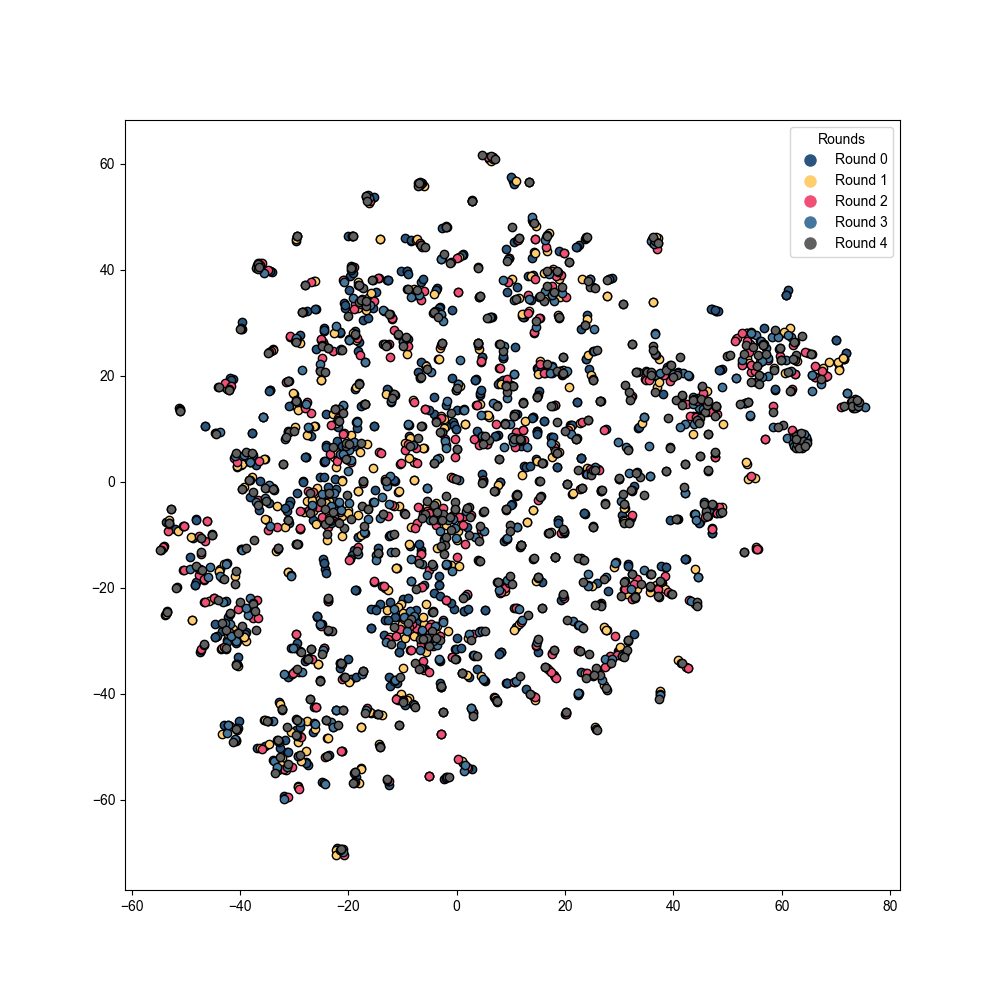
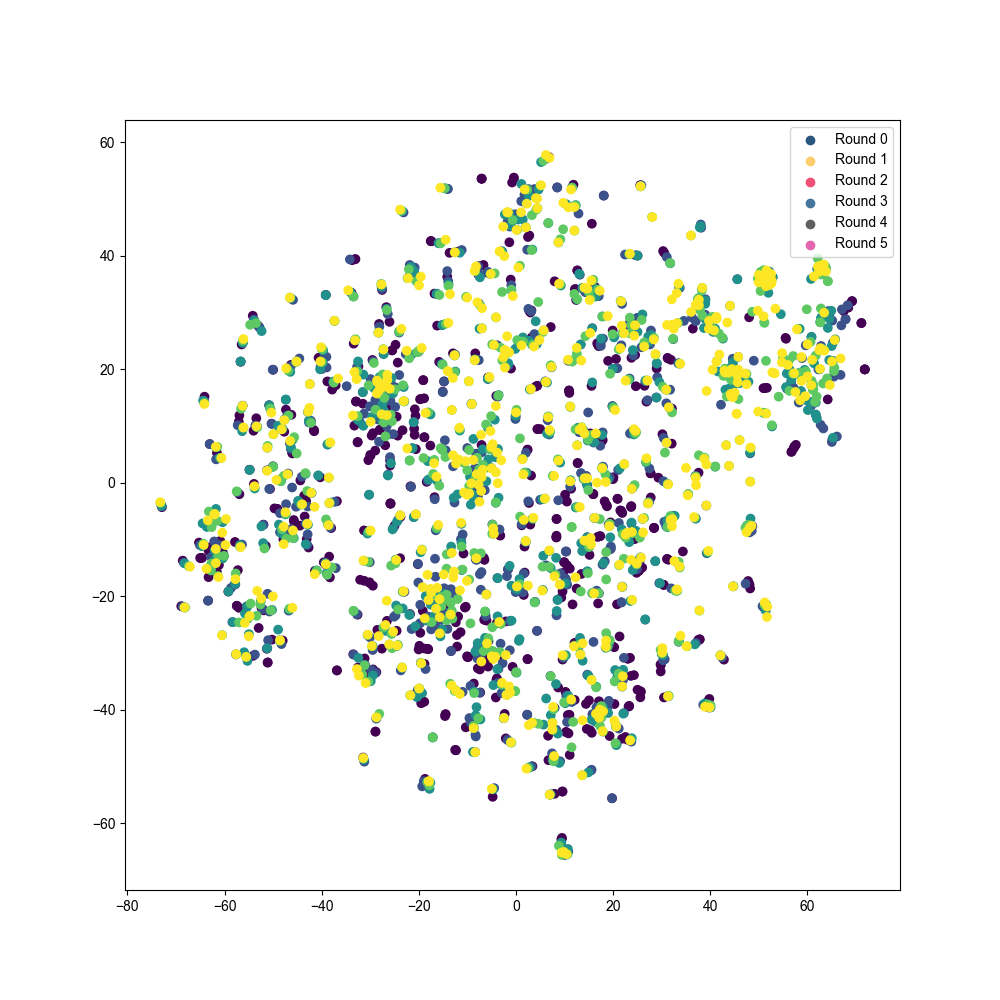
update the result

diff --git a/src/llm_evaluation/chart.py b/src/llm_evaluation/chart.py
@@ -6,7 +6,7 @@ import matplotlib.pyplot as plt
 import pandas as pd
 import torch
 import yaml
-from path import chart_dir, project_dir, score_dir
+from path import chart_dir, project_dir, score_dir,result_dir
 from pyecharts import options as opts
 from pyecharts.charts import Line
 from pyecharts.commons.utils import JsCode
@@ -56,34 +56,32 @@ def tsne(texts_list, rounds, output_path, vector=None, colors=None):
 
 
 def draw_tsne(config: dict):
-    model_name = config["model"]["model_name"]
-    language = config["language"]
-    for task in config["task_list"]:
-        for mode in ["q", "a"]:
-            data_path = (
-                project_dir / "result" / f"{model_name}_{task}_{language}"
-            )
-            qa_dataset = datasets.load_from_disk(data_path)
-            all_text, all_round = zip(
-                *[
-                    (
-                        qa_dataset.select_columns(f"{mode}{round}")[
-                            f"{mode}{round}"
-                        ],
-                        round,
+    for model_name in ['glm','llama','qwen']:
+        for language in config["language_list"]:
+            for task in config["task_list"]:
+                for mode in ["q", "a"]:
+                    data_path = result_dir / f"{model_name}_{task}_{language}"
+                    qa_dataset = datasets.load_from_disk(data_path)
+                    all_text, all_round = zip(
+                        *[
+                            (
+                                qa_dataset.select_columns(f"{mode}{round}")[
+                                    f"{mode}{round}"
+                                ],
+                                round,
+                            )
+                            for round in range(5)
+                        ]
                     )
-                    for round in range(5)
-                ]
-            )
-            output_dir = chart_dir / "tsne"
-            os.makedirs(output_dir, exist_ok=True)
-            tsne(
-                texts_list=all_text,
-                rounds=all_round,
-                output_path=output_dir
-                / f"tsne_{model_name}_{task}_{language}.png",
-                colors=config["color_family"],
-            )
+                    output_dir = chart_dir / "tsne"
+                    os.makedirs(output_dir, exist_ok=True)
+                    tsne(
+                        texts_list=all_text,
+                        rounds=all_round,
+                        output_path=output_dir
+                        / f"tsne_{model_name}_{task}_{language}.png",
+                        colors=config["color_family"],
+                    )
 
 
 def line(
@@ -108,13 +106,13 @@ def line(
     """
     plt.figure(figsize=(10, 6))
     for i, (series, label) in enumerate(zip(data, labels)):
-        linestyle = '-' if refer == 'n-1' else '-'
+        # linestyle = '-' if refer == 'n-1' else '-'
         plt.plot(
             range(len(series)),
             series,
             label=label,
             color=colors[i] if colors else None,
-            linestyle=linestyle,
+            # linestyle=linestyle,
         )
 
     plt.title(title)
@@ -156,37 +154,37 @@ def _combine_score(
 def draw_line(
     config,
     metric_name="rouge1",
-    mode="q",
-    refer="0",
     output_dir: str | Path = None,
 ):
-    model_list = ["llama", "glm", "qwen"]
-    scores = _combine_score(
-        model_list,
-        config["language"],
-        config["task"],
-        metric_name,
-        mode,
-        refer,
-    )
-    # Print the scores rounded to three decimal places
-    scores = [
-        [round(score, 3) for score in model_scores] for model_scores in scores
-    ]
-    if output_dir is None:
-        output_dir = chart_dir / "line"
-    os.makedirs(output_dir, exist_ok=True)
-    output_path = (
-        output_dir
-        / f"line_{metric_name}_{config["task"]}_{config["language"]}_{refer}.png"
-    )  # noqa: F821
-    line(
-        scores,
-        model_list,
-        y_axis_name=metric_name,
-        colors=config["color_family"],
-        output_path=output_path,
-    )
+    for mode in ["q", "a"]:
+        for refer in ["0", "n-1"]:
+            model_list = config["model_list"]
+            scores = _combine_score(
+                model_list,
+                config["language"],
+                config["task"],
+                metric_name,
+                mode,
+                refer,
+            )
+            # Print the scores rounded to three decimal places
+            scores = [
+                [round(score, 3) for score in model_scores] for model_scores in scores
+            ]
+            if output_dir is None:
+                output_dir = chart_dir / "line"
+            os.makedirs(output_dir, exist_ok=True)
+            output_path = (
+                output_dir
+                / f"line_{metric_name}_{config["task"]}_{config["language"]}_{refer}.png"
+            )  # noqa: F821
+            line(
+                scores,
+                model_list,
+                y_axis_name=metric_name,
+                colors=config["color_family"],
+                output_path=output_path,
+            )
 
 
 if __name__ == "__main__":
@@ -200,8 +198,7 @@ if __name__ == "__main__":
         config = yaml.safe_load(config_file)  # noqa: F821
     draw_tsne(config=config)
     # for metric_name in ["cosine", "rouge1", "rougeLsum"]:
-    #     for mode in ["q", "a"]:
-    #         for refer in ["0", "n-1"]:
+
     #             draw_line(
     #                 config=config,
     #                 metric_name=metric_name,
